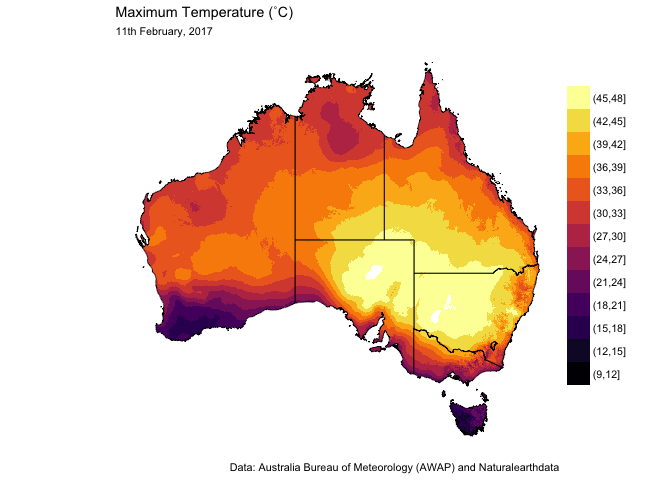
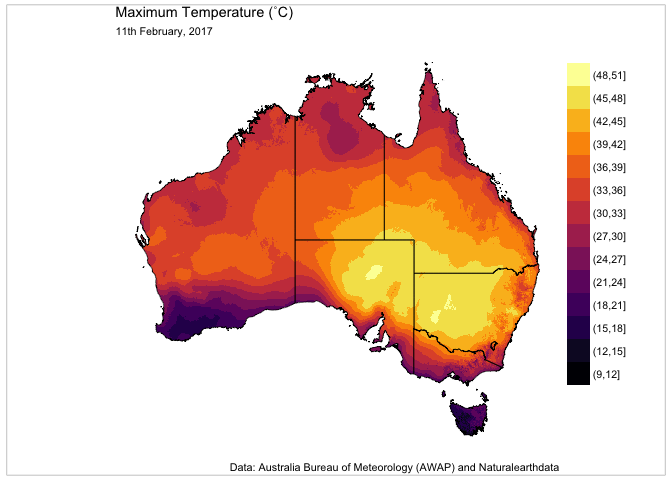
Cleanup and fixes
Cleanup README file

Fix the map where maximum temperature wasn't hot enough (YIKES!)

Add neatline to final map.

Changed region(s): [[0.25, 0.2812, 0.8125, 0.75], [0.8438, 0.125, 0.9375, 0.375], [0.2188, 0.4688, 0.25, 0.5312]]

diff --git a/README.md b/README.md
@@ -20,7 +20,7 @@ Almost as ugly as the temperatures outside.
 
 Nicholas wanted to see if he could use the `viridis` package to improve this map. I completely agree. This should be doable.
 
-To do this you only need a few packages from CRAN:
+To do this you'll need a few packages from CRAN:
 
 ``` r
 library(raster)
@@ -32,20 +32,42 @@ library(raster)
 library(ggplot2)
 library(viridis)
 library(ggthemes)
+library(grid)
+library(gridExtra)
 ```
 
 One from ROpenSciLabs, [rnaturalearth](https://github.com/ropenscilabs/rnaturalearth):
 
 ``` r
-# if (!require("devtools")) install.packages("devtools")
-#devtools::install_github("ropenscilabs/rnaturalearth")
+if (!require("devtools")) install.packages("devtools")
+```
+
+    ## Loading required package: devtools
+
+``` r
+devtools::install_github("ropenscilabs/rnaturalearth")
+```
+
+    ## Skipping install of 'rnaturalearth' from a github remote, the SHA1 (cc17bb58) has not changed since last install.
+    ##   Use `force = TRUE` to force installation
+
+``` r
 library("rnaturalearth")
 ```
 
 And one from SWISH, [awaptools](https://github.com/swish-climate-impact-assessment/awaptools):
 
 ``` r
-#devtools::install_github("awaptools", "swish-climate-impact-assessment")
+devtools::install_github("awaptools", "swish-climate-impact-assessment")
+```
+
+    ## Warning: Username parameter is deprecated. Please use swish-climate-impact-
+    ## assessment/awaptools
+
+    ## Skipping install of 'awaptools' from a github remote, the SHA1 (9b93f025) has not changed since last install.
+    ##   Use `force = TRUE` to force installation
+
+``` r
 library(awaptools)
 ```
 
@@ -111,22 +133,24 @@ Classify the heat map
 
 BoM shows the map in 3˚increments. We can reclassify the raster so that it will display in the same way.
 
-Using the `cut`, we'll set up our map in the same way.
+Using the `cut` function, we'll set up our map in the same way.
 
 ``` r
 oz_heat_df$cuts <- as.factor(cut(oz_heat_df$Temperature,
                            include.lowest = TRUE,
-                           breaks = seq(-6, 48, by = 3)))
+                           breaks = seq(-6, 54, by = 3)))
 ```
 
-Now, you can plot this directly from the spatial data, using the following method as described in the tidyverse here, <https://github.com/tidyverse/ggplot2/wiki/plotting-polygon-shapefiles>:
+Now, you can plot these together. Plot the new `data.frame`, `oz_heat` and layer a map of Australia on top of it. The Australian map can be plotted directly from the spatial data, using the following method as described in the tidyverse here, <https://github.com/tidyverse/ggplot2/wiki/plotting-polygon-shapefiles>:
 
 ``` r
-ggplot2::ggplot(data = na.omit(oz_heat_df), aes(y = Latitude, x = Longitude)) +
+oz <- ggplot2::ggplot(data = na.omit(oz_heat_df), 
+                      aes(y = Latitude, x = Longitude)) +
   ggplot2::geom_raster(aes(fill = cuts)) +
   viridis::scale_fill_viridis(option = "inferno", discrete = TRUE) +
   ggplot2::guides(fill = guide_legend(reverse = TRUE)) +
-  ggplot2::geom_polygon(data = oz_shape, aes(x = long, y = lat, group = group),
+  ggplot2::geom_polygon(data = oz_shape, 
+                        aes(x = long, y = lat, group = group),
                         fill = NA, color = "black", size = 0.25) +
   ggthemes::theme_map() +
   ggplot2::theme(legend.position = c(1, 0.15),
@@ -140,11 +164,19 @@ ggplot2::ggplot(data = na.omit(oz_heat_df), aes(y = Latitude, x = Longitude)) +
 
     ## Regions defined for each Polygons
 
+``` r
+# Using the gridExtra and grid packages add a neatline to the map
+gridExtra::grid.arrange(oz, ncol = 1)
+grid::grid.rect(width = 0.98, 
+                height = 0.98, 
+                gp = grid::gpar(lwd = 0.25, 
+                                col = "black",
+                                fill = NA))
+```
+
 ![](README_files/figure-markdown_github/plot-1.png)
 
-That's much better and pretty close. I'd still like a neatline around my map, but right now using the `panel.grid` or `panel.background` doesn't cooperate with my legend placement, it places the legend outside the neatline.
-
-Maybe later...
+That's much better and pretty close to what BoM originally created. Using any of the `ggplot` `panel.background` or `panel.grid` result in the legend being outside the line, so not really a neatline for a map. Using the `gridExtra` and `grid` packages fixes this.
 
 Cleanup on the way out
 ----------------------
@@ -163,32 +195,35 @@ sessionInfo()
 ```
 
     ## R version 3.3.2 (2016-10-31)
-    ## Platform: x86_64-apple-darwin16.4.0 (64-bit)
-    ## Running under: macOS Sierra 10.12.3
+    ## Platform: x86_64-apple-darwin15.6.0 (64-bit)
+    ## Running under: OS X El Capitan 10.11.6
     ## 
     ## locale:
     ## [1] en_AU.UTF-8/en_AU.UTF-8/en_AU.UTF-8/C/en_AU.UTF-8/en_AU.UTF-8
     ## 
     ## attached base packages:
-    ## [1] stats     graphics  grDevices utils     datasets  methods   base     
+    ## [1] grid      stats     graphics  grDevices utils     datasets  methods  
+    ## [8] base     
     ## 
     ## other attached packages:
-    ## [1] awaptools_1.2.1     rnaturalearth_0.1.0 ggthemes_3.3.0     
-    ## [4] viridis_0.3.4       ggplot2_2.2.1       raster_2.5-8       
-    ## [7] sp_1.2-4           
+    ## [1] awaptools_1.2.1     rnaturalearth_0.1.0 devtools_1.12.0    
+    ## [4] gridExtra_2.2.1     ggthemes_3.3.0      viridis_0.3.4      
+    ## [7] ggplot2_2.2.1       raster_2.5-8        sp_1.2-4           
     ## 
     ## loaded via a namespace (and not attached):
     ##  [1] Rcpp_0.12.9                   knitr_1.15.1                 
     ##  [3] magrittr_1.5                  munsell_0.4.3                
     ##  [5] colorspace_1.3-2              lattice_0.20-34              
-    ##  [7] stringr_1.1.0                 plyr_1.8.4                   
-    ##  [9] rnaturalearthhires_0.0.0.9000 tools_3.3.2                  
-    ## [11] rgdal_1.2-5                   grid_3.3.2                   
-    ## [13] gtable_0.2.0                  rgeos_0.3-22                 
-    ## [15] htmltools_0.3.5               yaml_2.1.14                  
-    ## [17] lazyeval_0.2.0                rprojroot_1.2                
-    ## [19] digest_0.6.12                 assertthat_0.1               
-    ## [21] tibble_1.2                    gridExtra_2.2.1              
-    ## [23] evaluate_0.10                 rmarkdown_1.3.9002           
-    ## [25] labeling_0.3                  stringi_1.1.2                
-    ## [27] scales_0.4.1                  backports_1.0.5
+    ##  [7] R6_2.2.0                      httr_1.2.1                   
+    ##  [9] stringr_1.1.0                 plyr_1.8.4                   
+    ## [11] rnaturalearthhires_0.0.0.9000 tools_3.3.2                  
+    ## [13] rgdal_1.2-5                   gtable_0.2.0                 
+    ## [15] git2r_0.18.0                  withr_1.0.2                  
+    ## [17] rgeos_0.3-22                  htmltools_0.3.5              
+    ## [19] yaml_2.1.14                   lazyeval_0.2.0               
+    ## [21] rprojroot_1.2                 digest_0.6.12                
+    ## [23] assertthat_0.1                tibble_1.2                   
+    ## [25] curl_2.3                      memoise_1.0.0                
+    ## [27] evaluate_0.10                 rmarkdown_1.3                
+    ## [29] labeling_0.3                  stringi_1.1.2                
+    ## [31] scales_0.4.1                  backports_1.0.5
